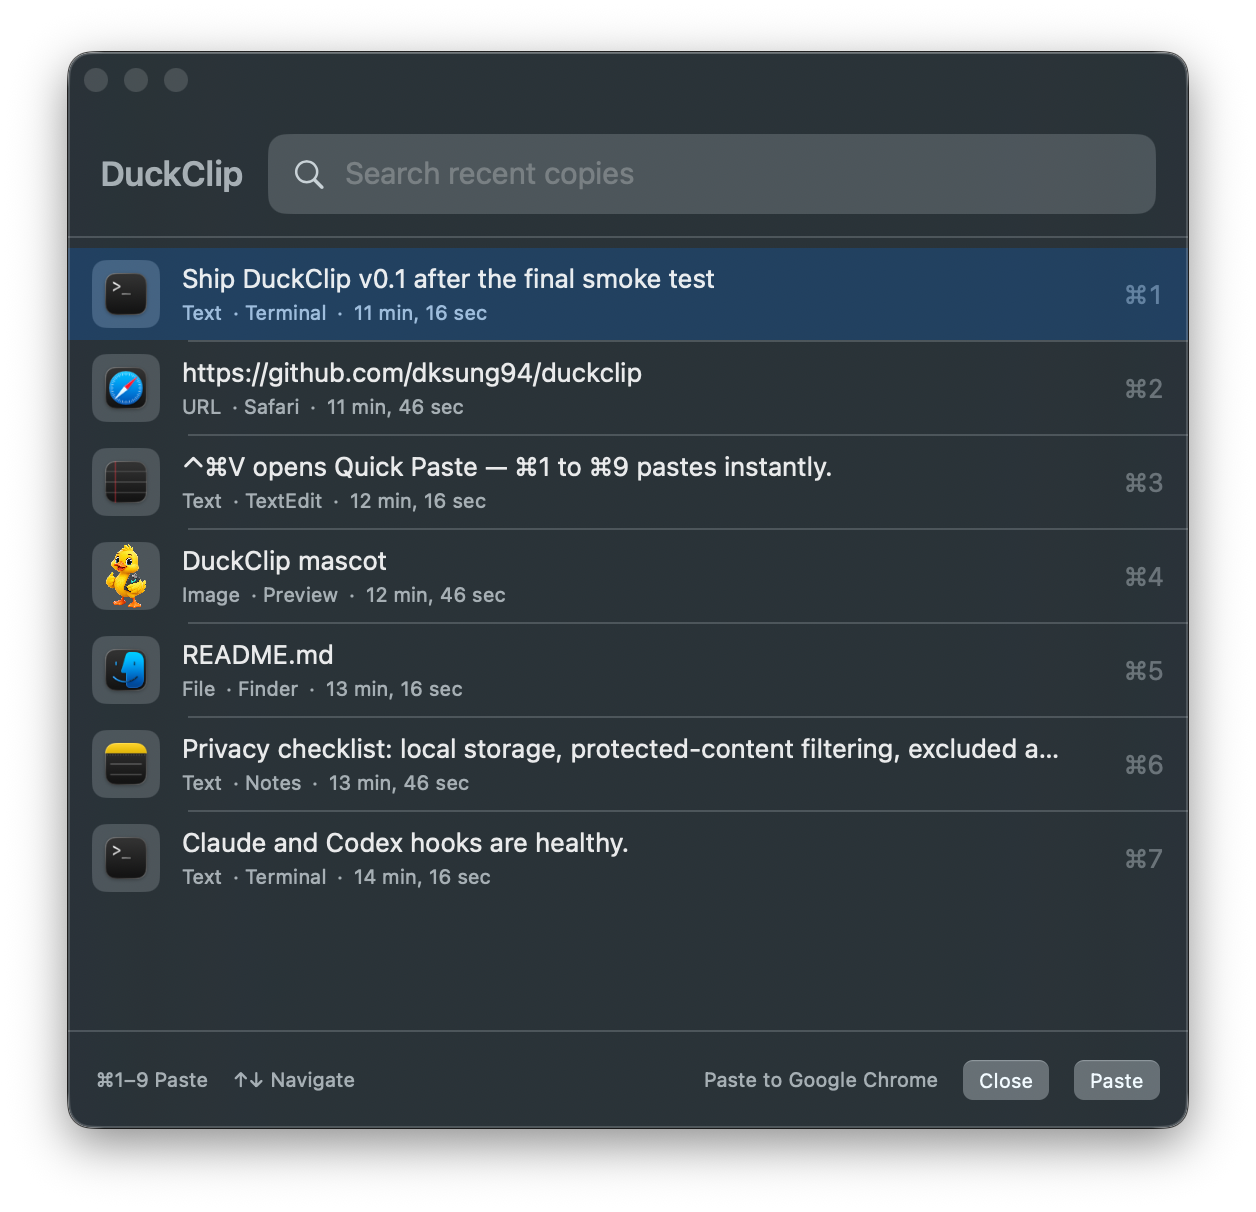
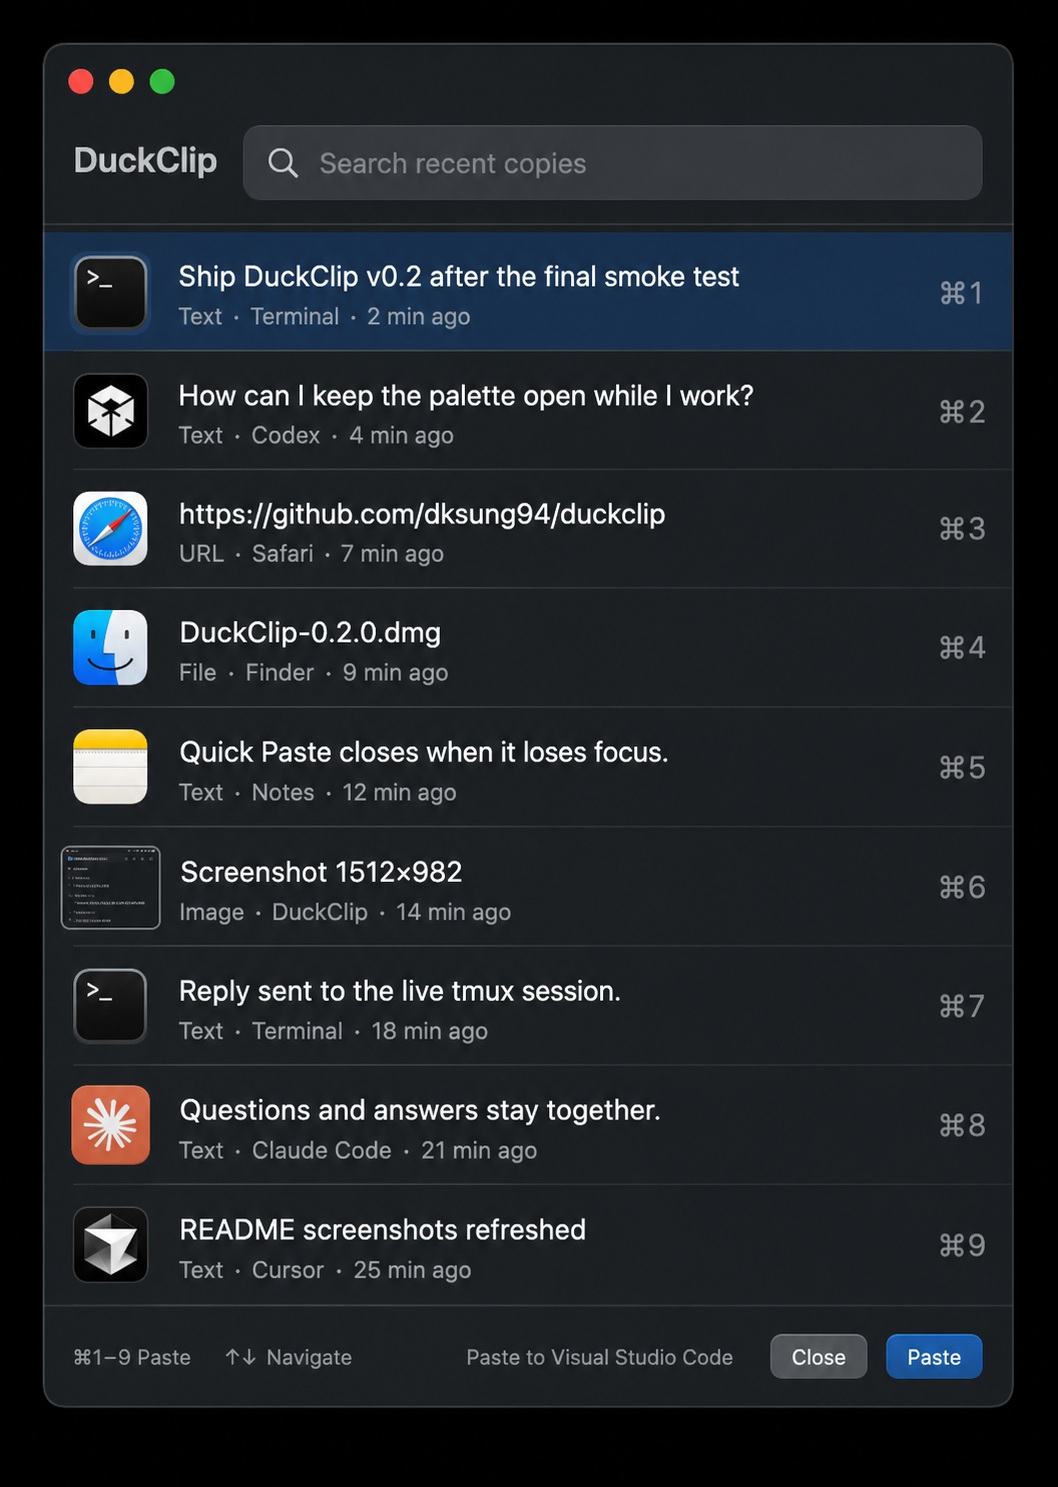
docs: refresh screenshots for current UI

diff --git a/README.md b/README.md
@@ -50,7 +50,7 @@ Use the compact Quick Paste window when you want something recent. Open the full
 ## Quick Paste
 
 <p align="center">
-  <img src="docs/assets/duckclip-quick-paste.png" width="560" alt="DuckClip Quick Paste showing recent clipboard items with Command-number shortcuts">
+  <img src="docs/assets/duckclip-quick-paste.png" width="560" alt="DuckClip Quick Paste showing nine recent text, URL, file, and image items with Command-number shortcuts">
 </p>
 
 Press `⌃⌘V` to open a lightweight list of your nine most recent clipboard items.
@@ -67,7 +67,7 @@ Clicking another app also dismisses Quick Paste without closing DuckClip itself.
 ## The full library
 
 <p align="center">
-  <img src="docs/assets/duckclip-demo.png" width="1080" alt="DuckClip agent library showing agents, conversations, and response details in three columns">
+  <img src="docs/assets/duckclip-demo.png" width="1080" alt="DuckClip agent inbox showing seven coding agents, question-based conversations, an original question and answer, and a live follow-up composer">
 </p>
 
 Press `⇧⌘V` when you need the complete DuckClip library.
